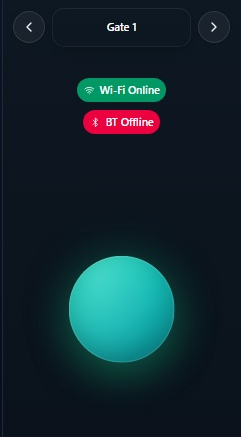
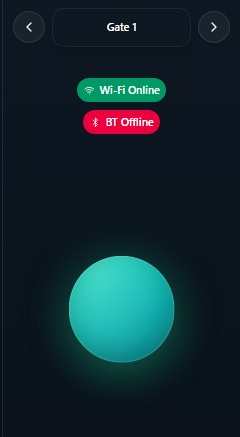
main mockup

diff --git a/mobile_client_MAUI_mockup/MainPage.xaml b/mobile_client_MAUI_mockup/MainPage.xaml
@@ -1,36 +1,73 @@
 <?xml version="1.0" encoding="utf-8" ?>
 <ContentPage xmlns="http://schemas.microsoft.com/dotnet/2021/maui"
              xmlns:x="http://schemas.microsoft.com/winfx/2009/xaml"
-             x:Class="MauiMockup.MainPage">
+             x:Class="MauiMockup.MainPage"
+             BackgroundColor="{StaticResource BackgroundColor}">
+    <Grid>
+        <!-- Portrait layout -->
+        <Grid x:Name="PortraitLayout" IsVisible="True" RowDefinitions="Auto,*,Auto" Padding="20" RowSpacing="40">
+            <Grid Grid.Row="0" ColumnDefinitions="Auto,*,Auto" ColumnSpacing="2">
+                <Button Text="&lt;" BackgroundColor="Transparent" BorderColor="Gray" BorderWidth="1" TextColor="White" />
+                <Button Grid.Column="1" Text="Gate 1" BackgroundColor="Transparent" BorderColor="Gray" BorderWidth="1" TextColor="White" />
+                <Button Grid.Column="2" Text="&gt;" BackgroundColor="Transparent" BorderColor="Gray" BorderWidth="1" TextColor="White" />
+            </Grid>
+            <Grid Grid.Row="1" RowDefinitions="*,2*">
+                <VerticalStackLayout Grid.Row="0" Spacing="10" HorizontalOptions="Center" VerticalOptions="Center">
+                    <Frame BackgroundColor="#00B470" CornerRadius="8" Padding="10,5" HasShadow="False">
+                    <HorizontalStackLayout>
+                        <Label Text="📶" FontSize="14" />
+                        <Label Text="Wi-Fi Online" TextColor="White" FontSize="14" Margin="5,0,0,0" />
+                    </HorizontalStackLayout>
+                </Frame>
+                <Frame BackgroundColor="#EB003F" CornerRadius="8" Padding="10,5" HasShadow="False">
+                    <HorizontalStackLayout>
+                        <Label Text="🔵" FontSize="14" />
+                        <Label Text="BT Offline" TextColor="White" FontSize="14" Margin="5,0,0,0" />
+                    </HorizontalStackLayout>
+                </Frame>
+                </VerticalStackLayout>
+                <Button Grid.Row="2" HeightRequest="200" WidthRequest="200" CornerRadius="100" Clicked="OnDoAction" HorizontalOptions="Center">
+                    <Button.Background>
+                        <RadialGradientBrush>
+                            <GradientStop Color="#00B8D4" Offset="0.2" />
+                            <GradientStop Color="#1DE9B6" Offset="0.8" />
+                        </RadialGradientBrush>
+                    </Button.Background>
+                </Button>
+            </Grid>
+        </Grid>
 
-    <ScrollView>
-        <VerticalStackLayout
-            Padding="30,0"
-            Spacing="25">
-            <Image
-                Source="dotnet_bot.png"
-                HeightRequest="185"
-                Aspect="AspectFit"
-                SemanticProperties.Description="dot net bot in a hovercraft number nine" />
-
-            <Label
-                Text="Hello, World!"
-                Style="{StaticResource Headline}"
-                SemanticProperties.HeadingLevel="Level1" />
-
-            <Label
-                Text="Welcome to &#10;.NET Multi-platform App UI"
-                Style="{StaticResource SubHeadline}"
-                SemanticProperties.HeadingLevel="Level2"
-                SemanticProperties.Description="Welcome to dot net Multi platform App U I" />
-
-            <Button
-                x:Name="CounterBtn"
-                Text="Click me" 
-                SemanticProperties.Hint="Counts the number of times you click"
-                Clicked="OnCounterClicked"
-                HorizontalOptions="Fill" />
-        </VerticalStackLayout>
-    </ScrollView>
-
+        <!-- Landscape layout -->
+        <Grid x:Name="LandscapeLayout" IsVisible="False" RowDefinitions="Auto,*" Padding="20" RowSpacing="20">
+            <Grid Grid.Row="0" ColumnDefinitions="Auto,*,Auto" ColumnSpacing="2">
+                <Button Text="&lt;" BackgroundColor="Transparent" BorderColor="Gray" BorderWidth="1" TextColor="White" />
+                <Button Grid.Column="1" Text="Gate 1" BackgroundColor="Transparent" BorderColor="Gray" BorderWidth="1" TextColor="White" />
+                <Button Grid.Column="2" Text="&gt;" BackgroundColor="Transparent" BorderColor="Gray" BorderWidth="1" TextColor="White" />
+            </Grid>
+            <Grid Grid.Row="1" ColumnDefinitions="Auto,*" ColumnSpacing="40" VerticalOptions="Center">
+                <VerticalStackLayout Grid.Column="0" Spacing="10" VerticalOptions="Center">
+                    <Frame BackgroundColor="#00B470" CornerRadius="8" Padding="10,5" HasShadow="False">
+                        <HorizontalStackLayout>
+                            <Label Text="📶" FontSize="14" />
+                            <Label Text="Wi-Fi Online" TextColor="White" FontSize="14" Margin="5,0,0,0" />
+                        </HorizontalStackLayout>
+                    </Frame>
+                    <Frame BackgroundColor="#EB003F" CornerRadius="8" Padding="10,5" HasShadow="False">
+                        <HorizontalStackLayout>
+                            <Label Text="🔵" FontSize="14" />
+                            <Label Text="BT Offline" TextColor="White" FontSize="14" Margin="5,0,0,0" />
+                        </HorizontalStackLayout>
+                    </Frame>
+                </VerticalStackLayout>
+                <Button Grid.Column="1" HeightRequest="200" WidthRequest="200" CornerRadius="100" Clicked="OnDoAction" HorizontalOptions="Center">
+                    <Button.Background>
+                        <RadialGradientBrush>
+                            <GradientStop Color="#00B8D4" Offset="0.2" />
+                            <GradientStop Color="#1DE9B6" Offset="0.8" />
+                        </RadialGradientBrush>
+                    </Button.Background>
+                </Button>
+            </Grid>
+        </Grid>
+    </Grid>
 </ContentPage>

diff --git a/mobile_client_MAUI_mockup/Resources/Styles/Colors.xaml b/mobile_client_MAUI_mockup/Resources/Styles/Colors.xaml
@@ -6,6 +6,8 @@
 
     <!-- Note: For Android please see also Platforms\Android\Resources\values\colors.xml -->
 
+    <Color x:Key="BackgroundColor">#0D1520</Color>
+
     <Color x:Key="Primary">#512BD4</Color>
     <Color x:Key="PrimaryDark">#ac99ea</Color>
     <Color x:Key="PrimaryDarkText">#242424</Color>

diff --git a/mobile_client_MAUI_mockup/AppShell.xaml b/mobile_client_MAUI_mockup/AppShell.xaml
@@ -7,7 +7,7 @@
     Title="MauiMockup">
 
     <ShellContent
-        Title="Home"
+        Title=""
         ContentTemplate="{DataTemplate local:MainPage}"
         Route="MainPage" />
 

diff --git a/mobile_client_MAUI_mockup/MainPage.xaml.cs b/mobile_client_MAUI_mockup/MainPage.xaml.cs
@@ -1,24 +1,20 @@
-namespace MauiMockup
+namespace MauiMockup;
+
+public partial class MainPage : ContentPage
 {
-    public partial class MainPage : ContentPage
+    public MainPage()
     {
-        int count = 0;
-
-        public MainPage()
-        {
-            InitializeComponent();
-        }
-
-        private void OnCounterClicked(object? sender, EventArgs e)
-        {
-            count++;
-
-            if (count == 1)
-                CounterBtn.Text = $"Clicked {count} time";
-            else
-                CounterBtn.Text = $"Clicked {count} times";
-
-            SemanticScreenReader.Announce(CounterBtn.Text);
-        }
+        InitializeComponent();
+    }
+    protected override void OnSizeAllocated(double width, double height)
+    {
+        base.OnSizeAllocated(width, height);
+        bool isLandscape = width > height;
+        LandscapeLayout.IsVisible = isLandscape;
+        PortraitLayout.IsVisible = !isLandscape;
+    }
+    void OnDoAction(object sender, EventArgs e)
+    {
+        // Placeholder for main action
     }
 }
